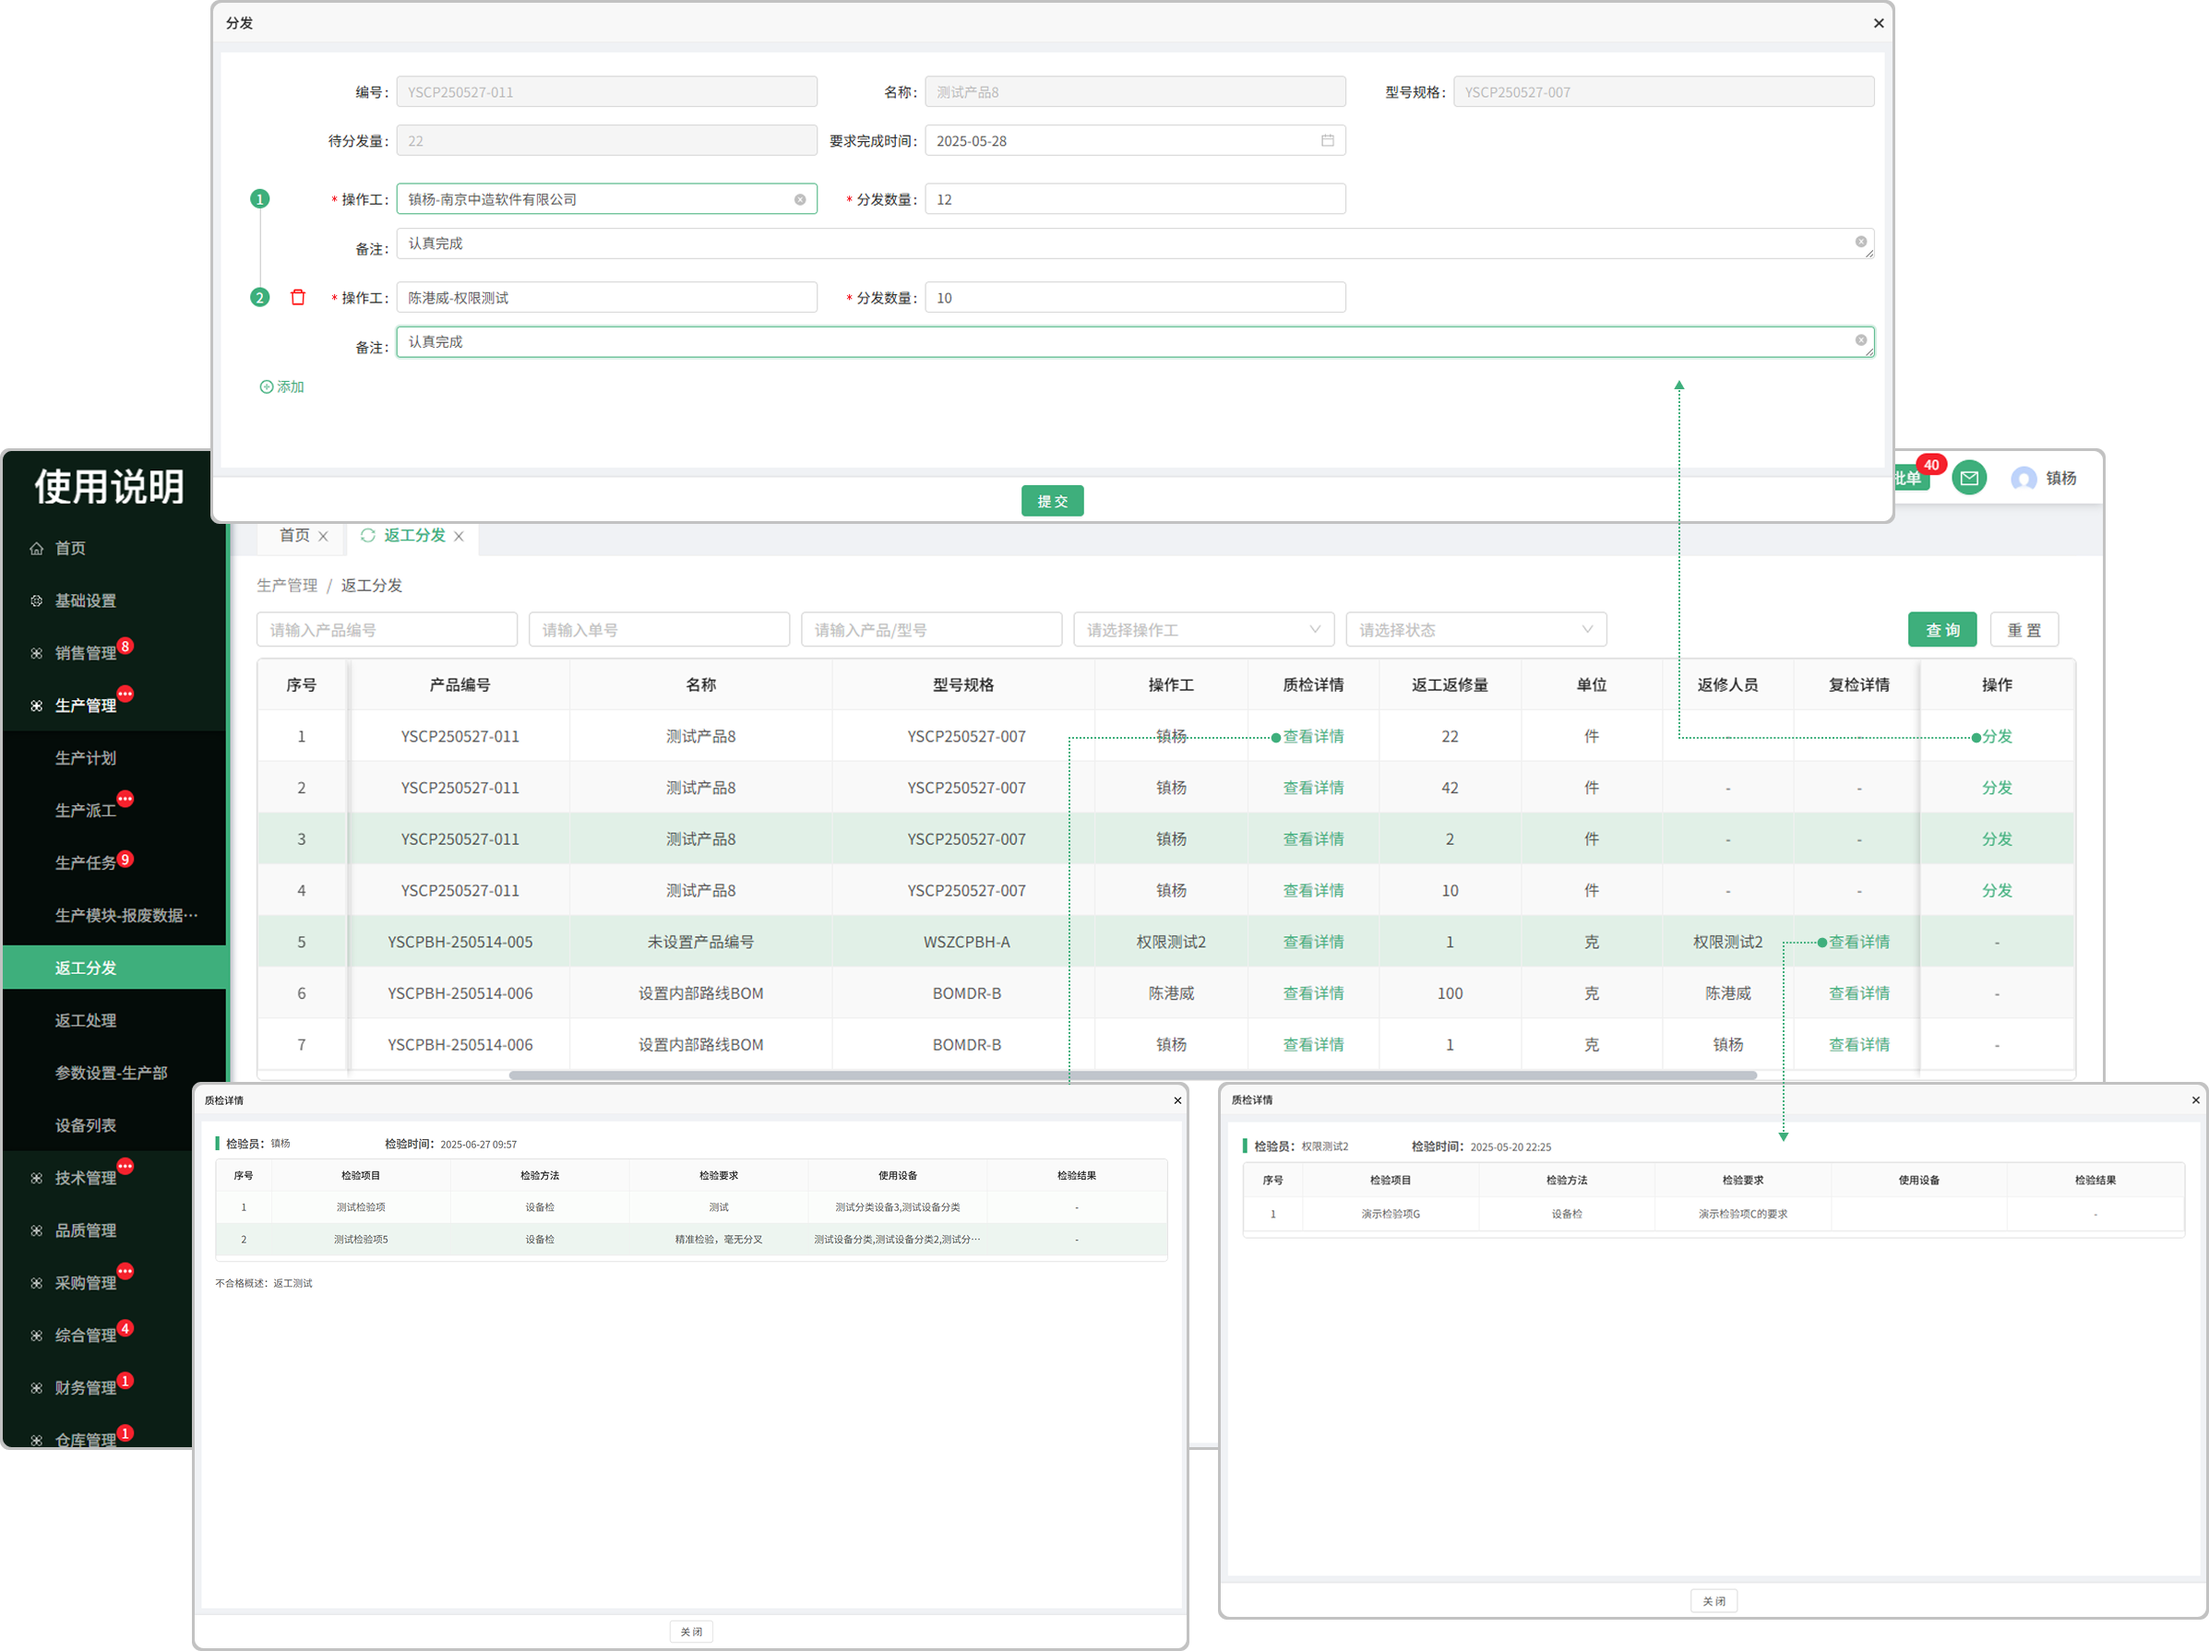
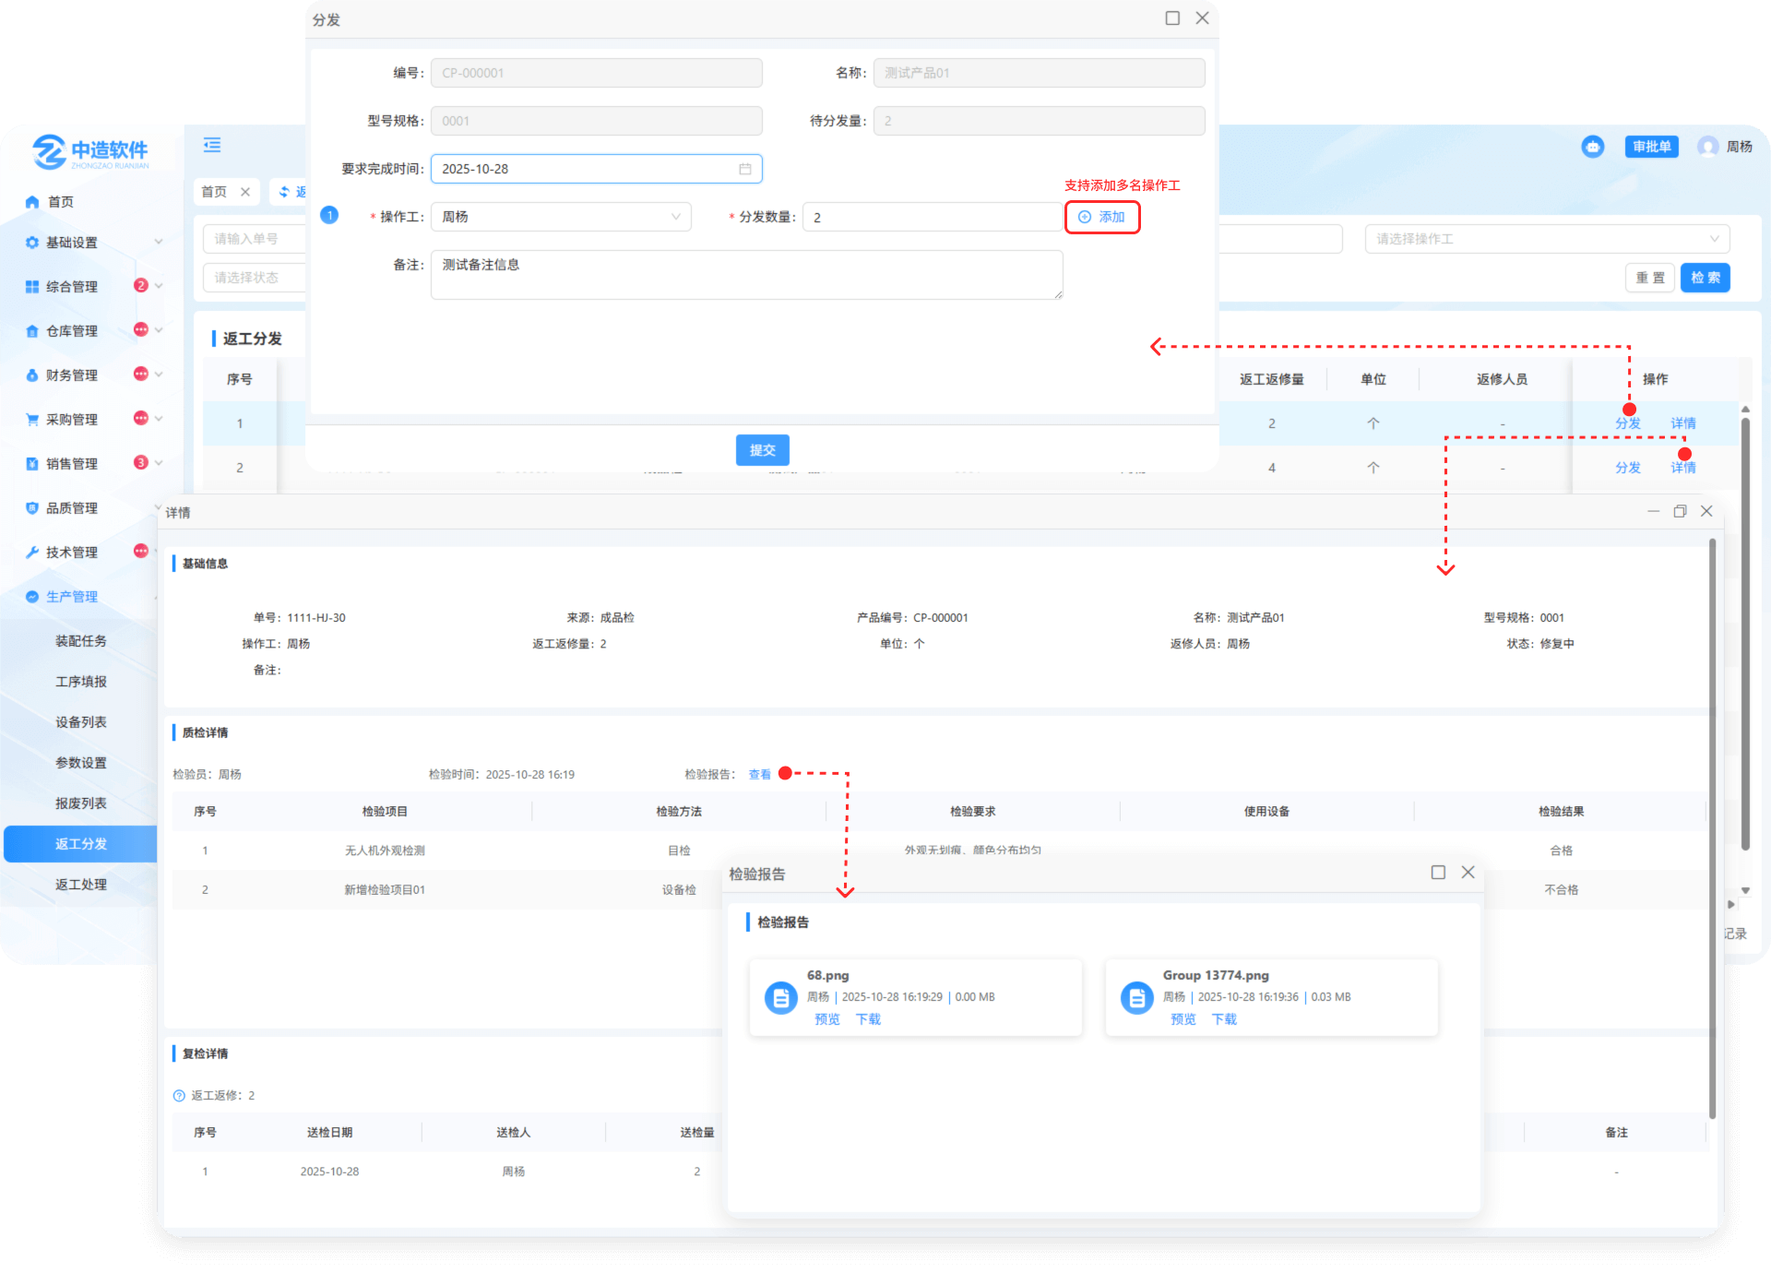
10.28下午更新

diff --git a/docs/生产管理/返工分发.md b/docs/生产管理/返工分发.md
@@ -1,6 +1,6 @@
 # 返工分发
 
-> “返工分发列表”位于“生产管理板块” ，在品质管理成品检任务，过程检任务中，员工检验的不合格审批所选的是返工返修时，数据会带到生产管理-返工分发
+> “返工分发列表”位于“生产管理板块” ，在品质管理成品检任务中，员工检验的不合格审批所选的是返工返修时，数据会带到生产管理-返工分发列表中
 
 #### 1.分发
 
@@ -8,15 +8,14 @@
 
 * 支持分发多名人员去完成任务
 
+#### 2.详情
 
-#### 2.质检详情
+* 点击详情按钮可查看产品的基本信息，质检详情，复检详情
 
-* 点击可查看质检员工，检验时间，检验信息
+* 质检详情中可查看检验报告
 
+* 复检详情中记录了返工处理列表中送检的详细内容信息
 
-#### 3.复检详情
-
-* 点击可查看送检日期，送检人，送检量，复检允收量，检验报告，检验员，检验日期，备注
 
 
 ![如图所示](../file/fgfx-zg.png)

diff --git a/docs/生产管理/返工处理.md b/docs/生产管理/返工处理.md
@@ -1,8 +1,10 @@
 # 返工处理
 
-> “返工处理列表”位于“生产管理板块” 来源于返工分发列表分发下来的任务，可操作补料，领料，送检
+> “返工处理列表”位于“生产管理板块” 来源于返工分发列表分发下来的任务，可操作补料，领料，送检，查看详情
 
-#### 1.补料 
+
+#### 1.补料
+
 * 点击补料按钮输入申请量，补料原因
 * 提交完成后等待仓库管理出库所领的料
 * 出库完成以后，显示领料按钮
@@ -28,9 +30,6 @@
 
 
 
-
-
-
 #### 3.送检
 
 * 点击送检按钮输入送检量，报废量
@@ -40,7 +39,5 @@
 
 * 点击查看这个产品所用的物料明细
 * 申请量：点击可查看补料时申请的数量，人员，时间
-
-
 
 ![如图所示](../file/fgfx-yg1.png) 

diff --git a/docs/生产管理/生产派工.md b/docs/生产管理/生产派工.md
@@ -81,9 +81,6 @@
 
 
 
-
-
-
 # 采购进度
 
 > 生产安排对有外部工序工艺路线的产品/物料进行生产安排，安排完成后，采购缺料列表会生成对应的询价单，同时生产派工的采购进度页面会显示对应的任务进度
